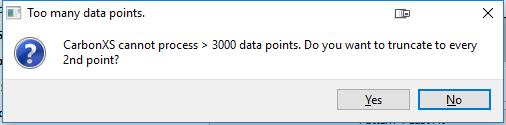
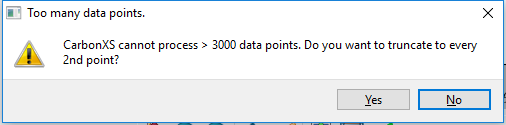
Changed too many points message window to warning box

diff --git a/CarbonXS_GUI.py b/CarbonXS_GUI.py
@@ -425,7 +425,7 @@ class MainWindow(QtGui.QMainWindow, Ui_MainWindow):
                         divisor_str = "%d th"%divisor
 
 
-                    reply = QtGui.QMessageBox.question(self, 'Too many data points.',
+                    reply = QtGui.QMessageBox.warning(self, 'Too many data points.',
                                                        "CarbonXS cannot process > 3000 data points. Do you want to truncate to every %s point?"%divisor_str, QtGui.QMessageBox.Yes |
                                                        QtGui.QMessageBox.No, QtGui.QMessageBox.No)
 
